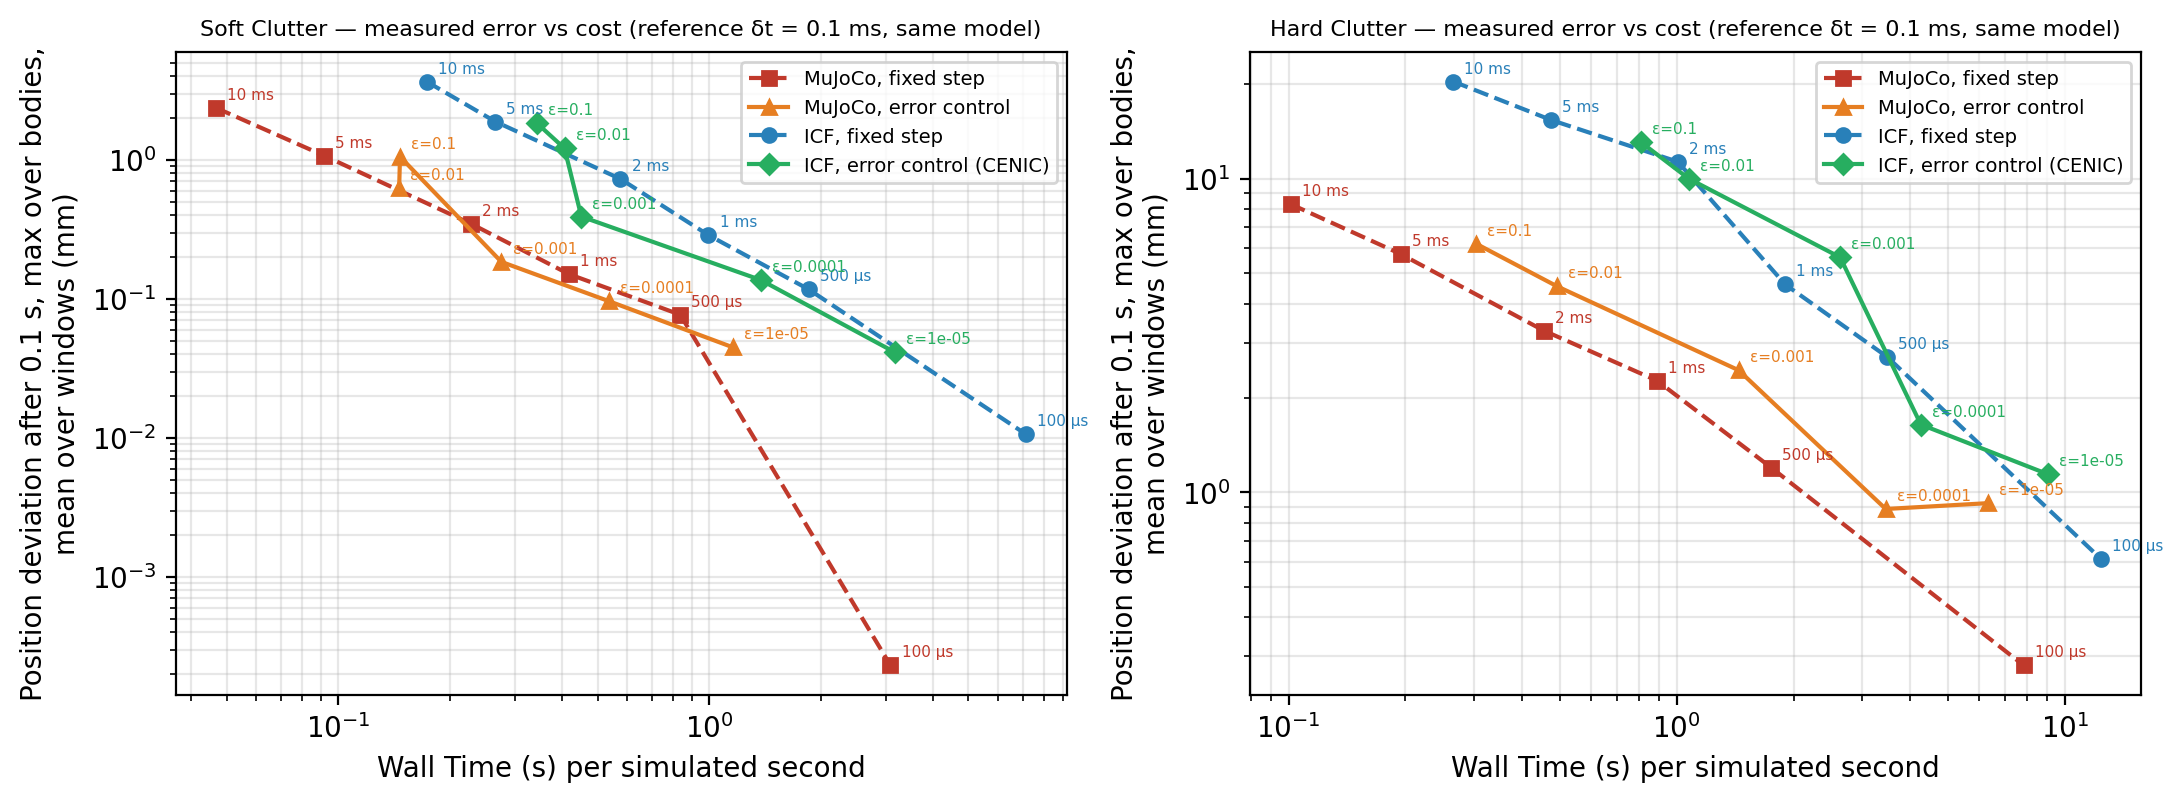
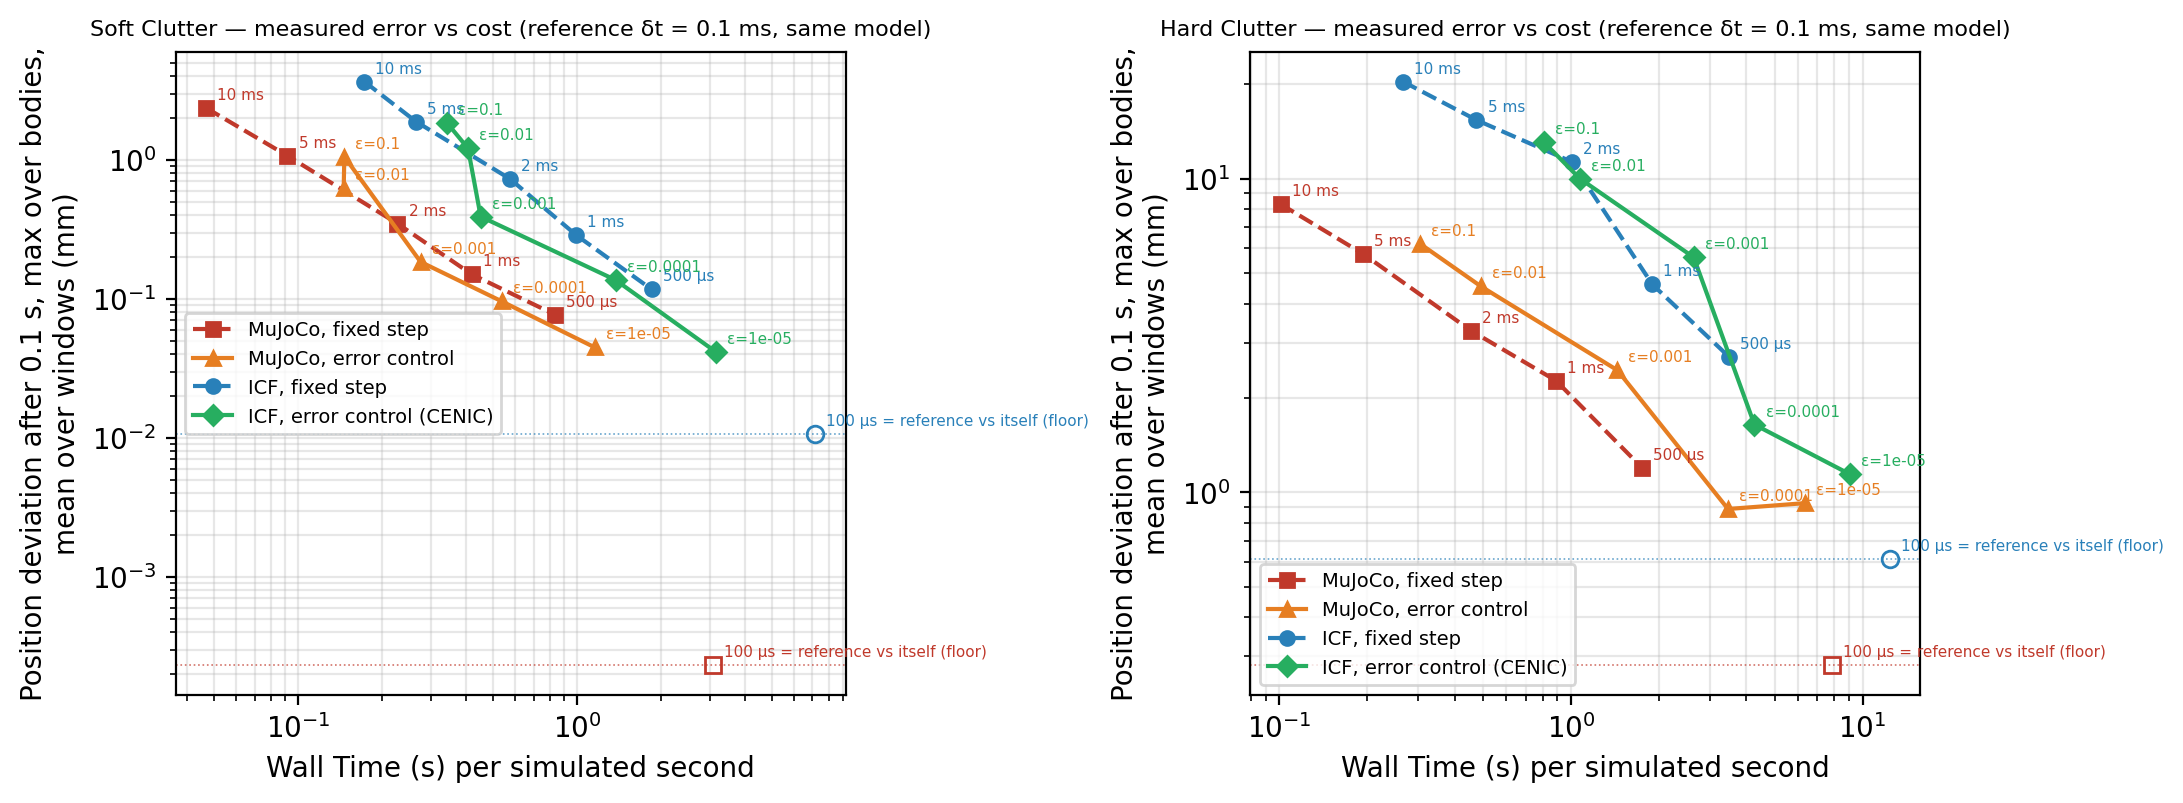
Consistency figure: draw the reference-vs-itself row as the floor
The earlier patch missed the ruff-formatted function body; the 0.1 ms
row is now a hollow marker with a dotted floor line, off the arm's line.

diff --git a/scripts/bench/part1_plots.py b/scripts/bench/part1_plots.py
@@ -744,12 +744,23 @@ def consistency() -> None:
         any_data = True
         for arm in STYLE:
             pts = sorted(
-                (r["wall_s_per_sim_s"], r["dev_mean_m"] * 1e3, _knob_label(r)) for r in rows if r["arm"] == arm
+                (
+                    r["wall_s_per_sim_s"],
+                    r["dev_mean_m"] * 1e3,
+                    _knob_label(r),
+                    r.get("dt_s", "") != "" and abs(r["dt_s"] - 1e-4) < 1e-12,
+                )
+                for r in rows
+                if r["arm"] == arm
             )
             if not pts:
                 continue
-            ax.plot([p[0] for p in pts], [p[1] for p in pts], ms=5, **STYLE[arm])
-            for x, y, lab in pts:
+            ax.plot([p[0] for p in pts if not p[3]], [p[1] for p in pts if not p[3]], ms=5, **STYLE[arm])
+            for x, y, lab, is_floor in pts:
+                if is_floor:  # the reference restarted against itself: the instrument's floor
+                    ax.plot([x], [y], marker=STYLE[arm]["marker"], mfc="none", color=STYLE[arm]["color"], ls="none", ms=6)
+                    ax.axhline(y, color=STYLE[arm]["color"], lw=0.6, ls=":", alpha=0.7)
+                    lab = f"{lab} = reference vs itself (floor)"
                 ax.annotate(
                     lab, (x, y), textcoords="offset points", xytext=(4, 3), fontsize=5.5, color=STYLE[arm]["color"]
                 )
